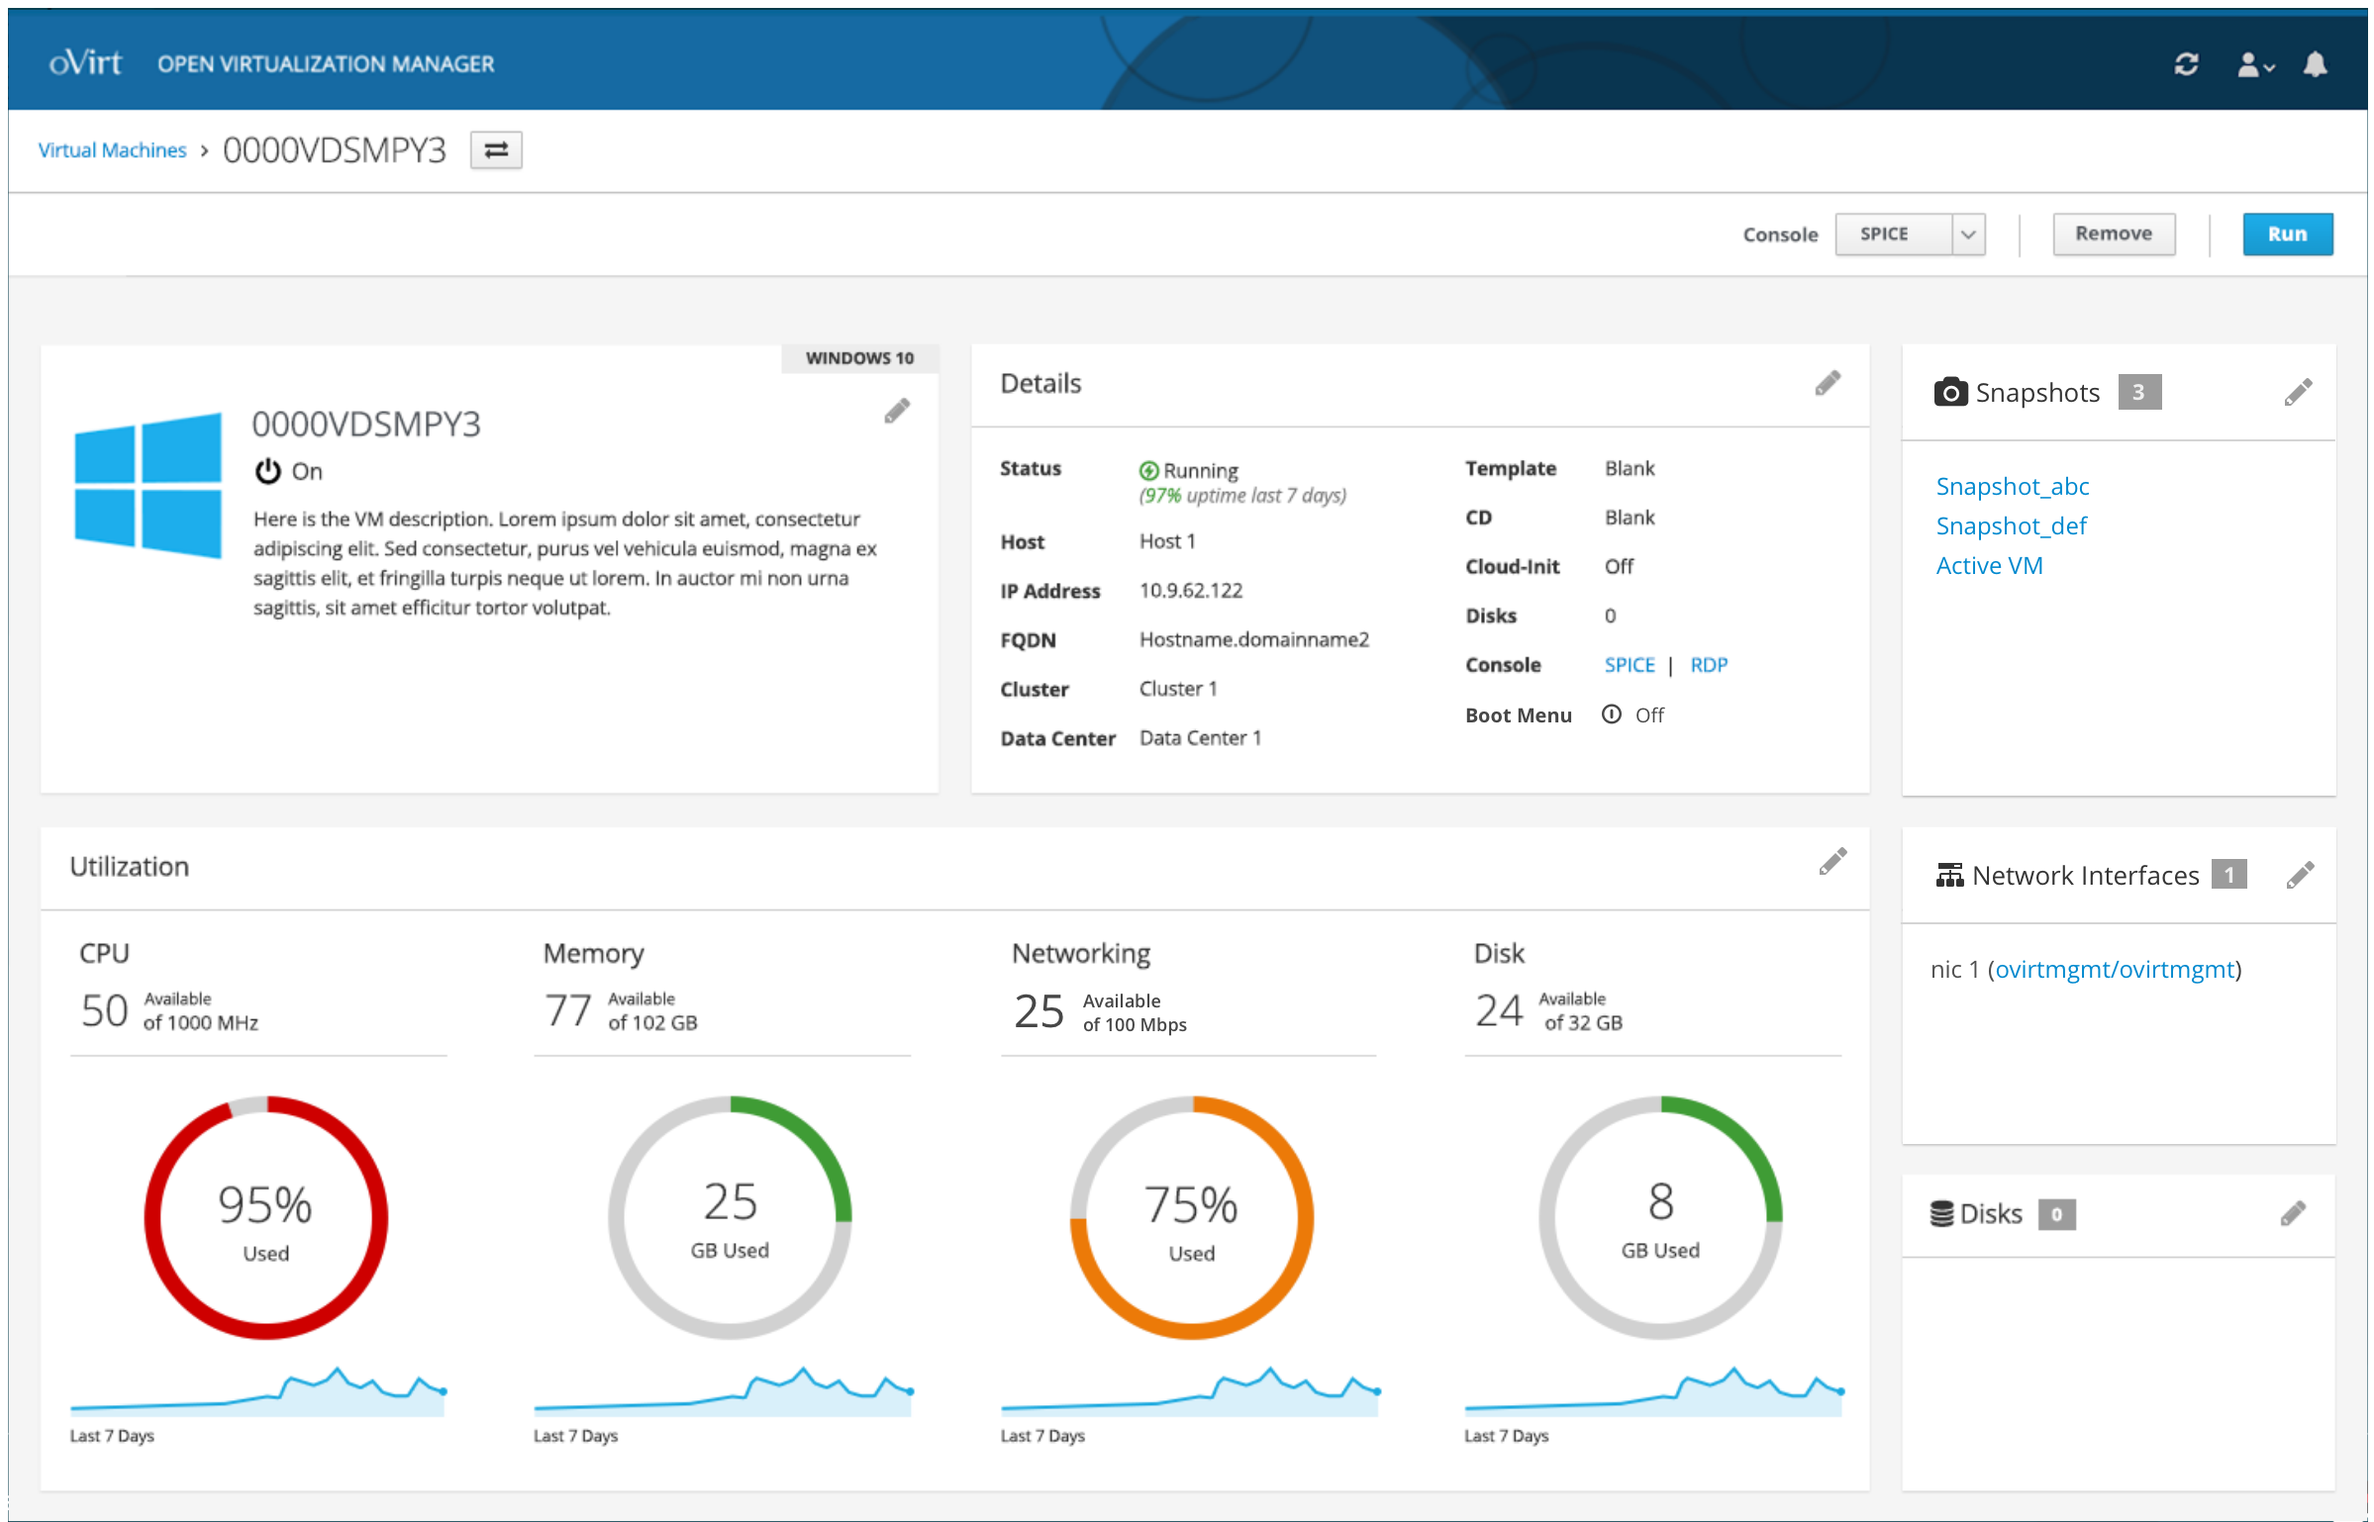
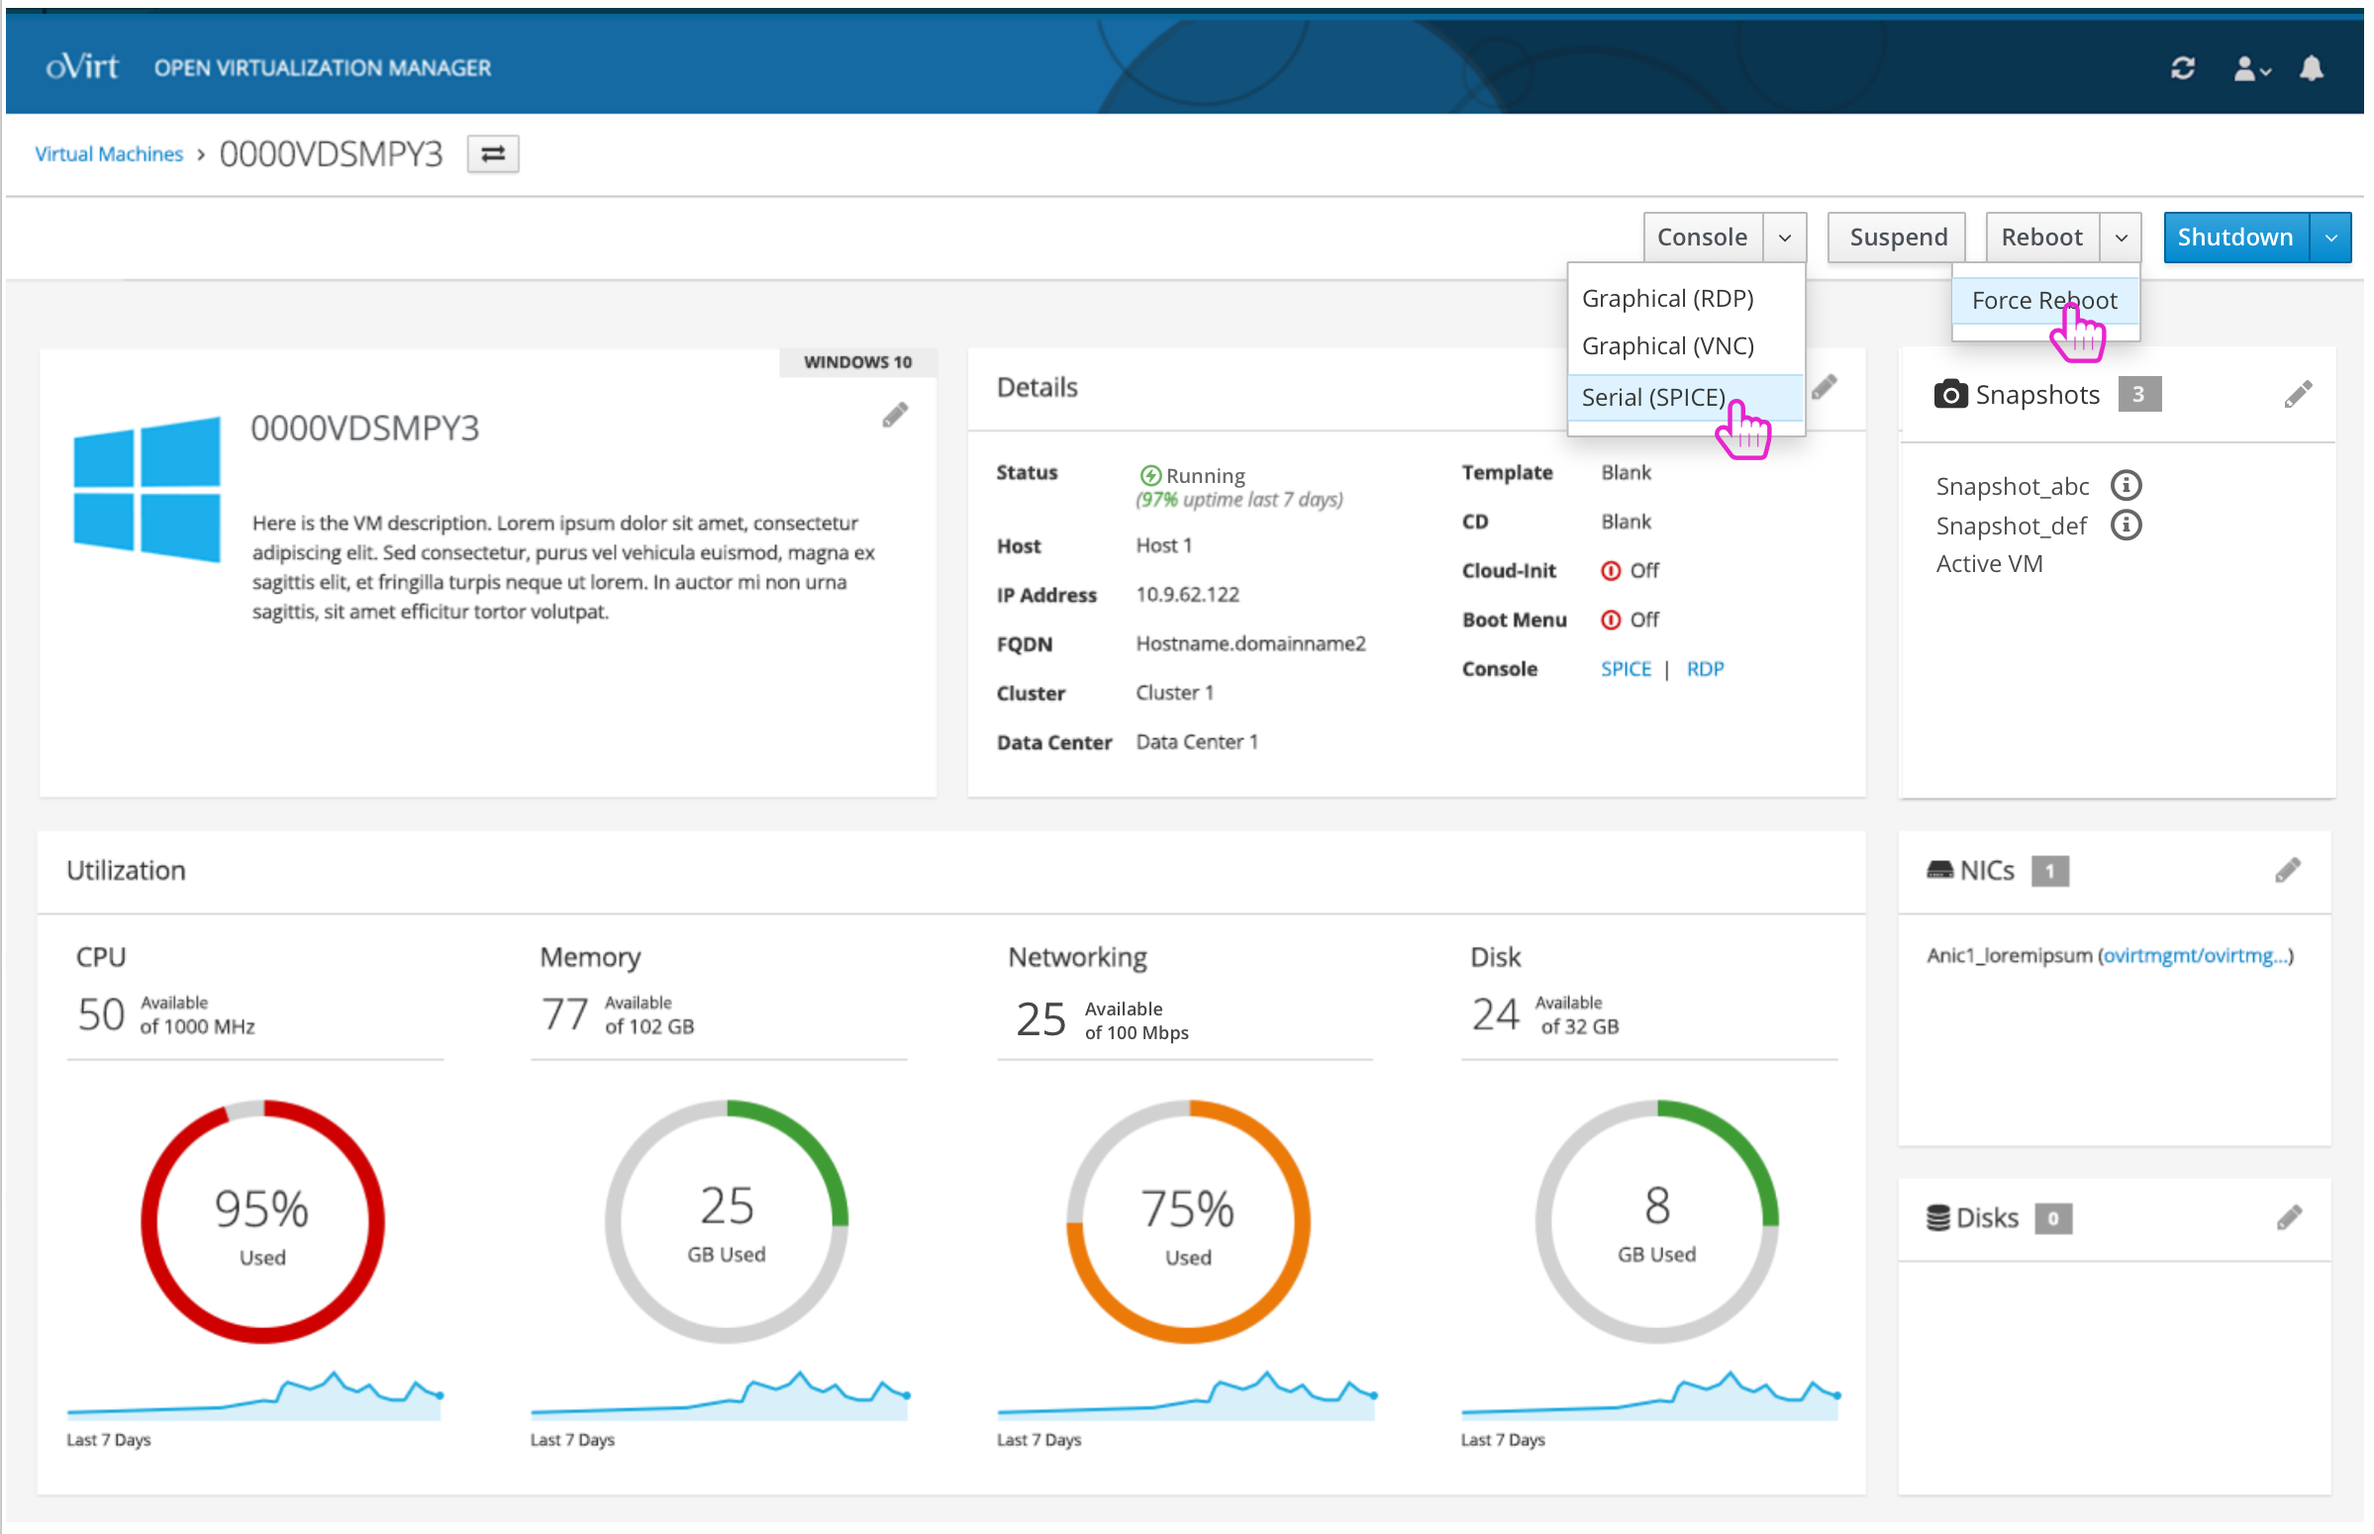
Updating designs to include different states and actions along with the states.

diff --git a/user-portal/virtual-machine-details.md b/user-portal/virtual-machine-details.md
@@ -5,13 +5,23 @@ Once logged in, the user can view any VMs that have already been created. This i
 From this level, the user can change filter the list along with view the high level details of the VMs shown. The state of each VM is a primary detail along with the primary action that can be taken. Additionally, from this view the user can Create a New VM.
 ![vms](img/vms.png)
 
-### Virtual Machine Details
+### Virtual Machine Details - Running
 Clicking on a specific Virtual Machine will give the user more details about that VM. These details include:
-* Basic information about the VM (Status, Host, IP Address, FQDN, Cluster, Data Center, Template, CD, and Cloud-Init)
-* Utilization metrics for CPU, Memory, and Network
+* Basic information about the VM (Status, Host, IP Address, FQDN, Cluster, Data Center, Template, CD, and Cloud-Init, Console access, and Boot Menu)
+* Utilization metrics for CPU, Memory, Network, and Disk
 * NICs
-* Snapshots and snapshot hierarchy
+* Snapshots
 * Disks
-* Console availability
-* Boot Menu
+
+Depending on the state of the VM, the user will have access to different actions.
 ![vmdetails](img/vm-details.png)
+
+### Virtual Machine Details - Suspended
+If the VM is suspended, the state will be updated along with the actions that can be taken. The user won't be able to access the console any more and there won't be any utilization details available for CPU, Memory and Networking.
+
+![vmdetailssuspended](img/vm-details-suspended.png)
+
+### Virtual Machine Details - Off
+Similar to a suspended VM, if the VM is off, the state will be updated along with the actions that can be taken. The user won't be able to access the console any more and there won't be any utilization details available for CPU, Memory and Networking.
+
+![vmdetailssuspended](img/vm-details-off.png)

diff --git a/README.md b/README.md
@@ -9,6 +9,6 @@
   * [VM - Dashboard](https://ovirt.github.io/ovirt-design/admin-ui/compute/vm-dashboard)
 
 ## User Portal
-
+  * [Virtual Machines List and Details](https://ovirt.github.io/ovirt-design/user-portal/virtual-machine-details)
 ## Common Components
 *  [Object Details](https://ovirt.github.io/ovirt-design/common/object-details)
